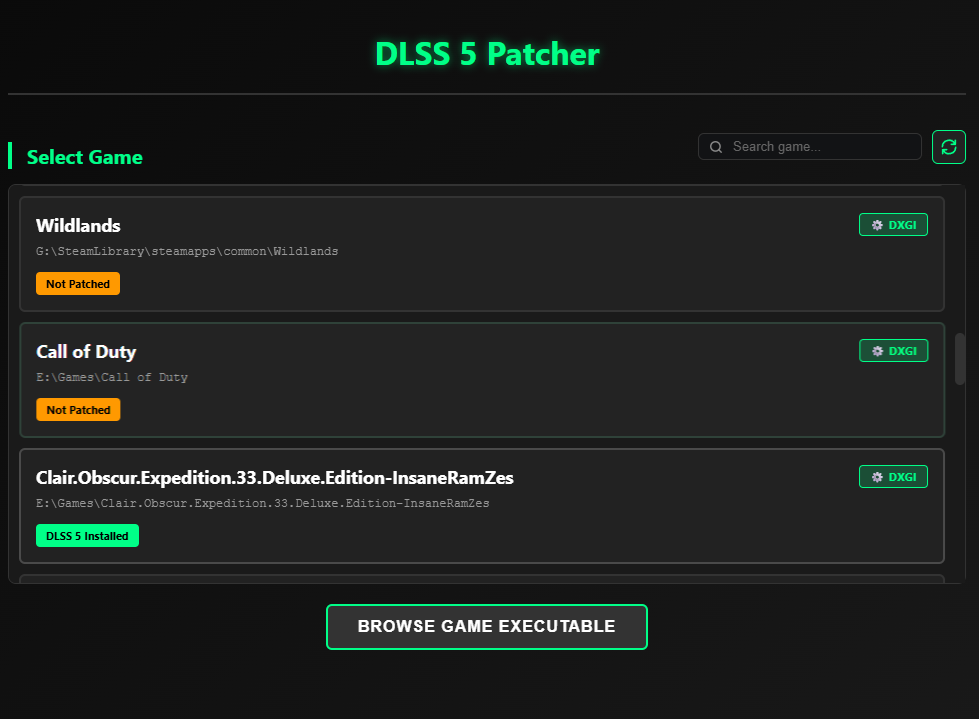
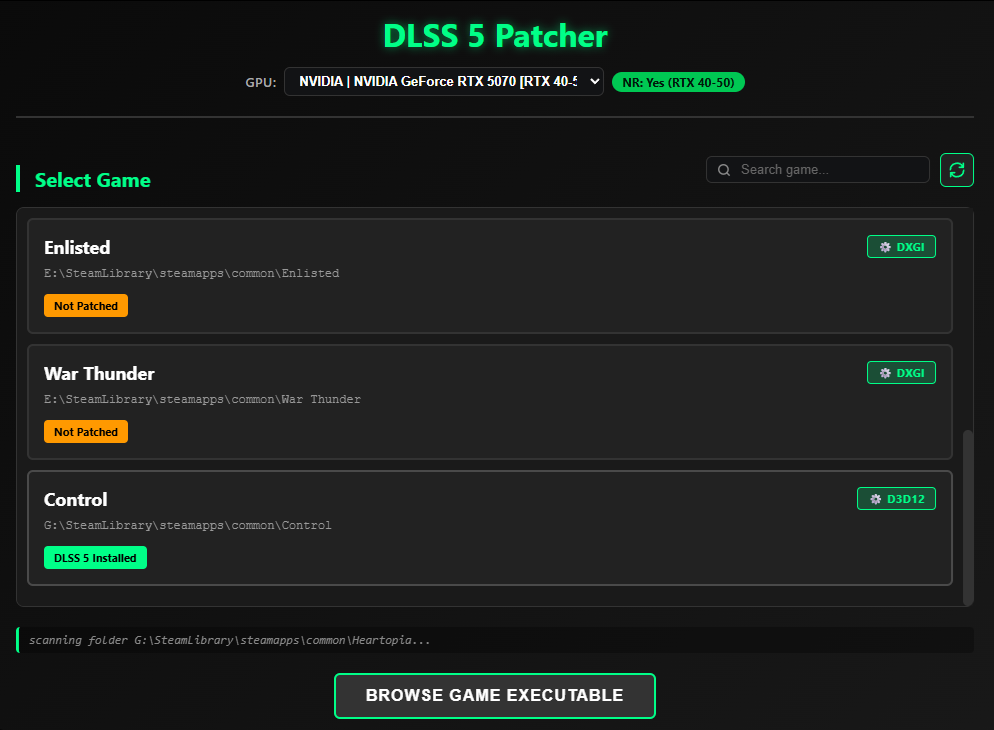
release: dlss 5 patcher v1.2.0

diff --git a/src/app.go b/src/app.go
@@ -4178,7 +4178,7 @@ func copyDir(src, dst string) error {
 
 // GetAppVersion returns the application version
 func (a *App) GetAppVersion() string {
-	return "1.0.0"
+	return "1.2.0"
 }
 
 // GetSystemInfo returns system information including detected GPU

diff --git a/README.md b/README.md
@@ -1,33 +1,38 @@
 # DLSS 5 Patcher
 
-DLSS 5 Neural Rendering patcher for Windows games, built with Wails v2 (Go + Vanilla JS).
+DLSS 5 Neural Rendering patcher for Windows games **ReShade or OptiScaler, one click**. Built with Wails v2 (Go + Vanilla JS).
 
 <p align="center">
   <img src="src/frontend/src/assets/images/preview_1.png" alt="DLSS 5 Patcher - Game List" width="500">
 </p>
 
-## Features
+### ReShade + DLSS 5 Add-On
+Best for DX11 / DX12 / Vulkan with full ReShade control.
+- Installs ReShade with Addon Support and DLSS 5 add-ons (RenoDX + optional Feeder)
+- Native-DLSS games automatically use Direct path without Feeder to avoid conflicts
+- Pre-configured iMMERSE: Launchpad and DLSS 5 Feed preset, no manual in-game setup
 
-Simple DLSS 5 patcher does the smart work automatically:
+### OptiScaler (FSR / XeSS / DLSS)
+Best for broad API coverage, including Vulkan and DX11.
+- Proxy DLL `dxgi.dll` with automatic backend selection
+- Auto-tuned configuration, works where ReShade is limited
 
-- **Native-DLSS detection**: games that ship their own `nvngx_dlss.dll` (Unreal, Cyberpunk, etc.) get the Direct RenoDX path *without* the DLSS5-Feeder.
-- **Upscaling disabled by default**: writes `NREnableUpscaling=0` into every config section the add-on reads. This app boots with it OFF: no overlay toggling.
-- **Pre-configured ReShade preset**: iMMERSE: Launchpad and DLSS 5 Feed are enabled and ordered automatically, so there's no manual in-game setup.
-- **Multi-drive, multi-platform detection**: scans every active drive, Steam `libraryfolders.vdf`, Epic manifests, Ubisoft Connect, GOG Galaxy, EA/Origin, and Xbox Games. Games appear in the UI live as they're found.
-- **Deep clean uninstall**: scans every subdirectory (`Binaries/Win64`, `_retail_`, etc.), removes all ReShade/DLSS files, and restores originals from `.dlss5_backup`.
-- **Patch → Launch flow**: after patching, the game stays selected and is one click away from launching.
+### Common Features
+- **Multi-drive, multi-platform detection**: scans every active drive, Steam libraries, Epic, Ubisoft Connect, GOG Galaxy, EA/Origin, and Xbox Games. Games appear live as they are found.
+- **Deep clean uninstall**: scans every subdirectory and restores originals from backup.
+- **Live progress & patch flow**: real-time status during patch and uninstall, and one-click launch after patching.
 
 ## Easy to Use
 
-Just select a game and click **Patch**. The app handles everything else automatically, including ReShade installation, DLSS 5 add-ons, and config tweaks.
+Just select a game, choose a mode, and click **Patch**. The app handles everything else automatically, including ReShade/OptiScaler installation, DLSS 5 add-ons, and config tweaks.
 
 <p align="center">
-  <img src="src/frontend/src/assets/images/preview_2.png" alt="DLSS 5 Patcher - Game List" width="500">
+  <img src="src/frontend/src/assets/images/preview_2.png" alt="DLSS 5 Patcher - Details" width="500">
 </p>
 
 ---
 
-### Download App Here: [DLSS 5 Patcher](https://github.com/MRHRTZ/DLSS5-Patcher/releases/download/v1.0.0/DLSS.5.Patcher.v1.0.0.zip)
+### Download App: [DLSS.5.Patcher.v1.2.0.zip](https://github.com/MRHRTZ/DLSS5-Patcher/releases/download/v1.2.0/DLSS.5.Patcher.v1.2.0.zip)
 
 ---
 
@@ -46,32 +51,44 @@ The binary is generated at `src/build/bin/DLSS 5 Patcher.exe`. Copy it to the wo
 ```
 DLSS 5 Setup/
 ├── DLSS 5 Patcher.exe         # Production launcher
-├── ReShadeConfig.json         # Optional ReShade installer URL
-├── ReShade/                   # ReShade dependencies
-│   ├── Effects/               # ReShade shaders & textures
-│   ├── Extracted/             # Pre-extracted ReShade64.dll & manifests
-│   └── ReShade_Setup_6.8.0.exe  # Auto-downloaded if missing
-├── data/                      # DLSS 5 neural rendering addons & DLLs
-│   ├── dlss5-feed.addon64
-│   ├── renodx-dlss5.addon64
-│   ├── nvngx_dlss.dll
-│   ├── nvngx_dlssnr.dll
-│   └── reshade-shaders-source/
+├── config.json                # Unified config (gpu_selection, reshade_setup_url, reshade_url, optiscaler_url, dlss5_url)
+├── data/
+│   ├── reshade-setup/         # ReShade with Addon Support
+│   │   ├── Extracted/         # Pre-extracted ReShade64.dll & manifests
+│   │   └── ReShade_Setup_6.8.0_Addon.exe  # Auto-downloaded from config if missing
+│   ├── reshade/               # ReShade DLSS 5 add-ons & shaders
+│   │   ├── dlss5-feed.addon64
+│   │   ├── renodx-dlss5.addon64
+│   │   └── reshade-shaders-source/
+│   ├── optiscaler/            # OptiScaler proxy + backends
+│   │   ├── OptiScaler.dll
+│   │   ├── OptiScaler.ini.default
+│   │   └── OptiScaler/        # libxess, amd_fidelityfx_*, D3D12_OptiScaler/
+│   └── dlss5/                 # Shared DLSS Neural Rendering DLLs
+│       ├── nvngx_dlss.dll
+│       ├── nvngx_dlssnr.dll
+│       └── nvngx.dll_dlssnr.dll
 ├── patcher.log                # Operation log
 └── src/                       # Wails application source
 ```
 
-## ReShade Installer Size
+## Configuration
 
-The official ReShade installer (`ReShade_Setup_6.8.0.exe`, ~4 MB) is **not** bundled with the repo to keep downloads small. Configure its download URL in `ReShadeConfig.json`:
+`config.json` is auto-created if missing. Leave a `*_url` empty to show an error dialog instead of silently failing. `reshade_setup_url` supports direct `.exe` URLs:
 
 ```json
 {
-  "url": ""
+  "gpu_selection": "",
+  "reshade_setup_url": "https://reshade.me/downloads/ReShade_Setup_6.8.0_Addon.exe",
+  "reshade_url": "",
+  "optiscaler_url": "",
+  "dlss5_url": ""
 }
 ```
 
-If `url` is empty, the app downloads from `https://reshade.me/downloads/ReShade_Setup_6.8.0.exe`. The installer is cached in `ReShade/` for future patches, then `ReShade64.dll` is extracted into `ReShade/Extracted/`.
+## Changelog
+
+See [RELEASE NOTES](https://github.com/MRHRTZ/DLSS5-Patcher/releases) for full details.
 
 ## License
 This project is licensed under the MIT License. See the [LICENSE](https://mit-license.org) file for details.
